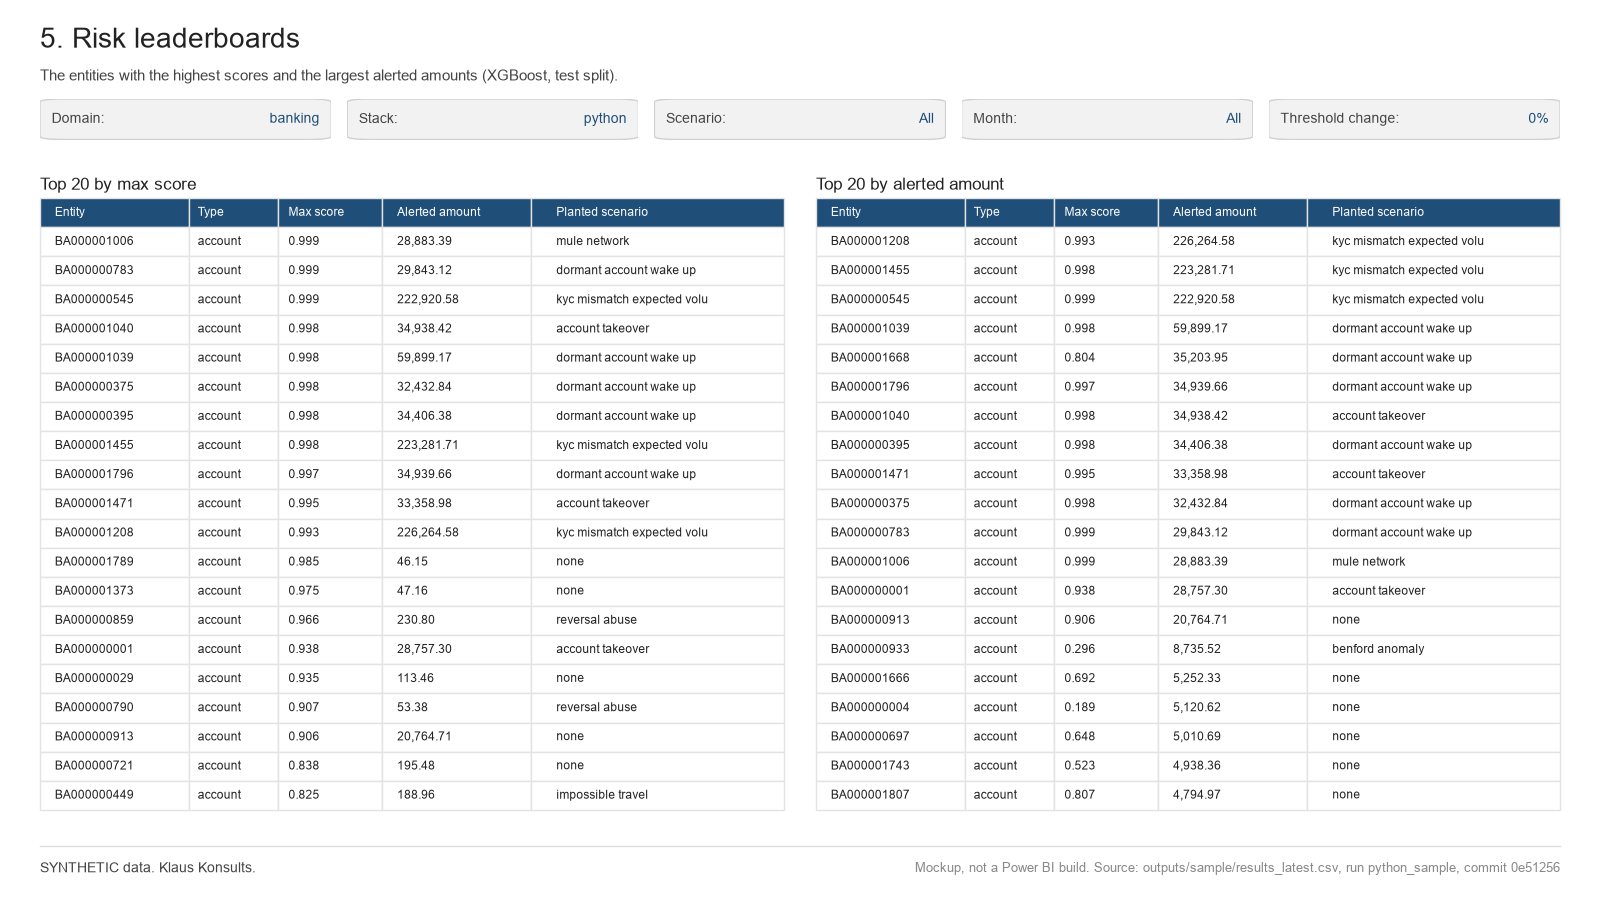
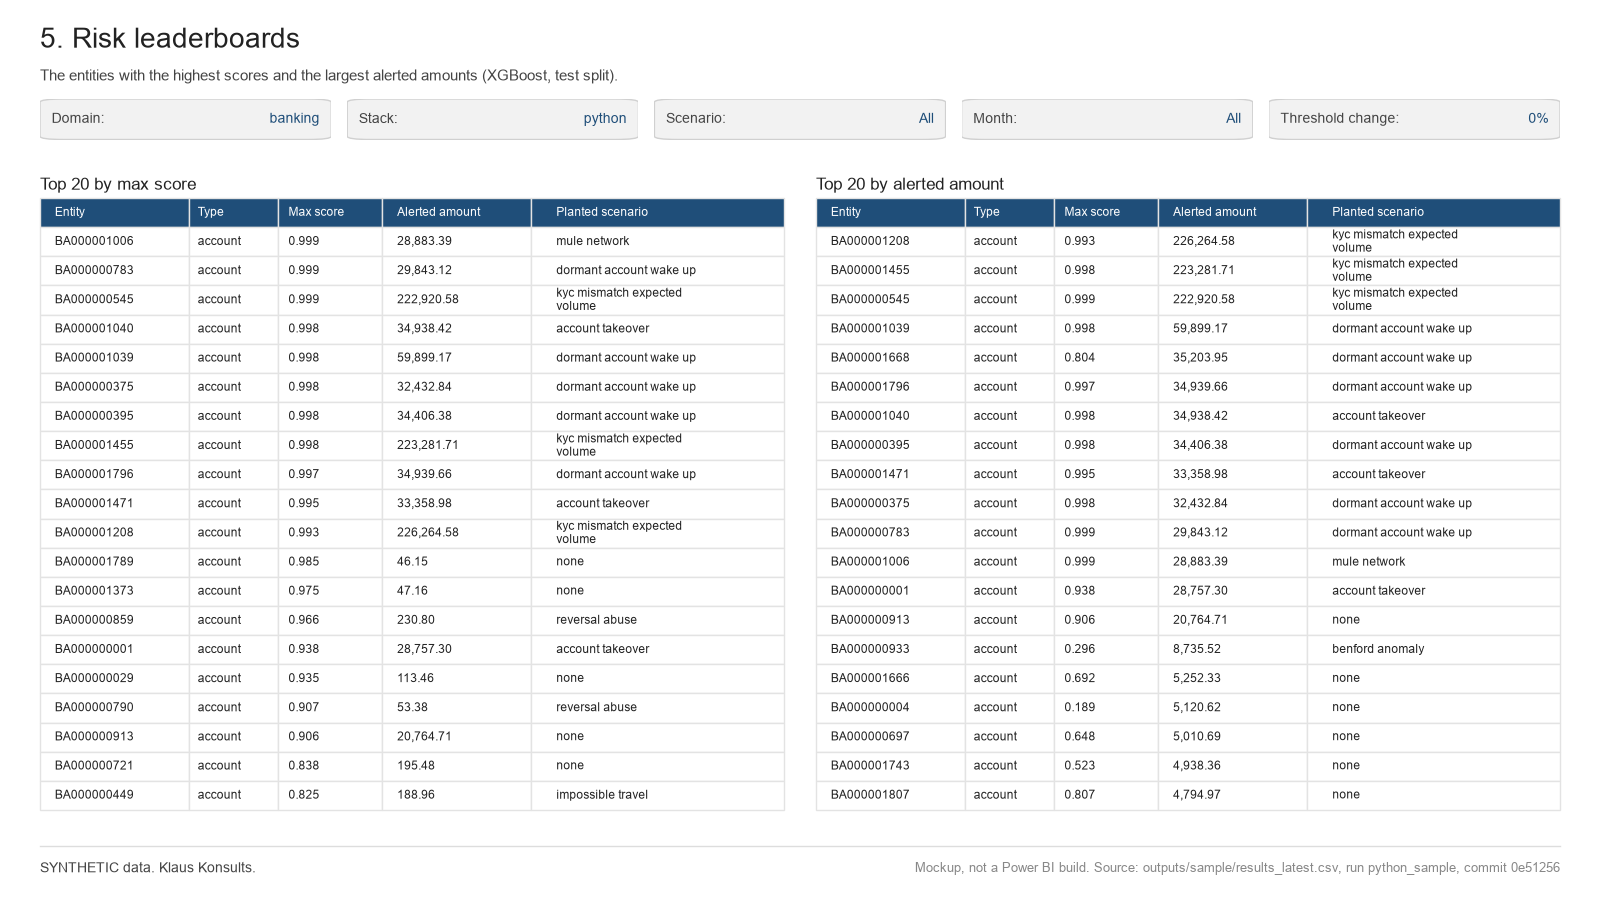
Wrap page 5 scenario names in Power BI mockups (Klaus Konsults)

diff --git a/docs/powerbi_mockups/render_mockups.py b/docs/powerbi_mockups/render_mockups.py
@@ -7,6 +7,7 @@ Run from the repo root: python docs/powerbi_mockups/render_mockups.py
 from __future__ import annotations
 
 import subprocess
+import textwrap
 from pathlib import Path
 
 import matplotlib
@@ -197,7 +198,7 @@ g = b.groupby(["entity_id", "entity_type"]).agg(max_score=("score", "max"), aler
 t1 = g.sort_values("max_score", ascending=False).head(20)
 t2 = g.sort_values("alerted", ascending=False).head(20)
 f = lambda t: pd.DataFrame({"Entity": t.entity_id, "Type": t.entity_type, "Max score": t.max_score.map("{:.3f}".format),
-                            "Alerted amount": t.alerted.map(lambda v: fmt(v, 2)), "Planted scenario": t.scenario.str.replace("_", " ").str.slice(0, 26)})
+                            "Alerted amount": t.alerted.map(lambda v: fmt(v, 2)), "Planted scenario": t.scenario.str.replace("_", " ").map(lambda v: "\n".join(textwrap.wrap(v, 26)))})
 table(fig, [0.025, 0.1, 0.465, 0.68], f(t1), title="Top 20 by max score", fs=8.5, colw=[0.2, 0.12, 0.14, 0.2, 0.34])
 table(fig, [0.51, 0.1, 0.465, 0.68], f(t2), title="Top 20 by alerted amount", fs=8.5, colw=[0.2, 0.12, 0.14, 0.2, 0.34])
 save(fig, 5, "risk_leaderboards")
@@ -287,8 +288,8 @@ card(fig, [0.35, 0.62, 0.3, 0.16], "Failed", fmt((~q.passed.astype(bool)).sum())
 card(fig, [0.675, 0.62, 0.3, 0.16], "Pass rate", f"{q.passed.astype(bool).mean():.0%}")
 qb = q[q.domain == "banking"].head(22)
 table(fig, [0.025, 0.08, 0.95, 0.5], pd.DataFrame({"Step": qb.step.astype(int), "Dataset": qb.dataset_id, "Check": qb.check_name,
-                                                    "Expected": qb.expected.fillna("").astype(str).str.slice(0, 26),
-                                                    "Observed": qb.observed.astype(str).str.slice(0, 42), "Passed": qb.passed.astype(str)}),
+                                                    "Expected": qb.expected.fillna("").astype(str),
+                                                    "Observed": qb.observed.astype(str), "Passed": qb.passed.astype(str)}),
       fs=8, colw=[0.05, 0.07, 0.25, 0.2, 0.33, 0.1], red=lambda i: not bool(qb.passed.iloc[i]))
 save(fig, 10, "dq_reconciliation")
 
